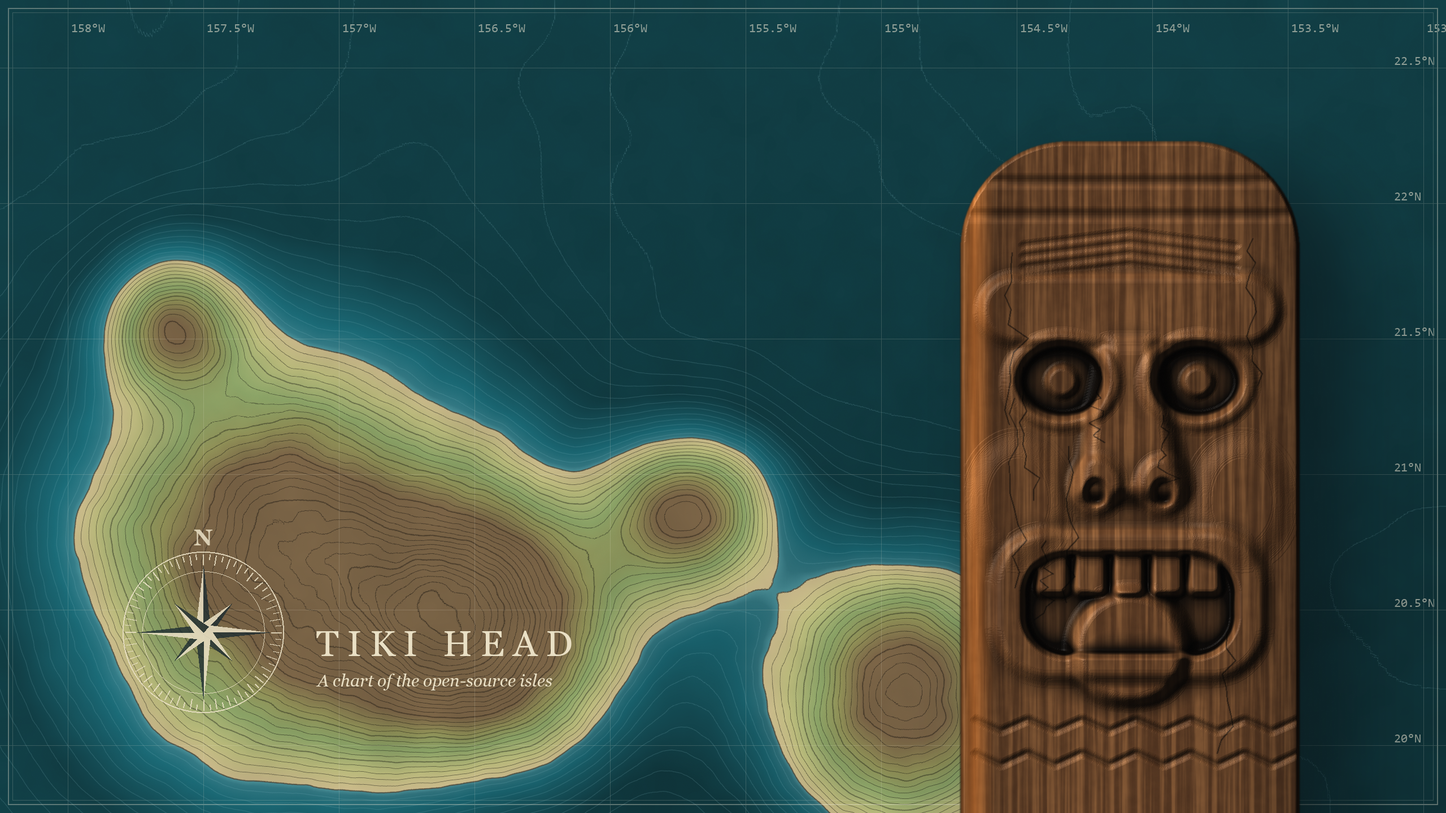
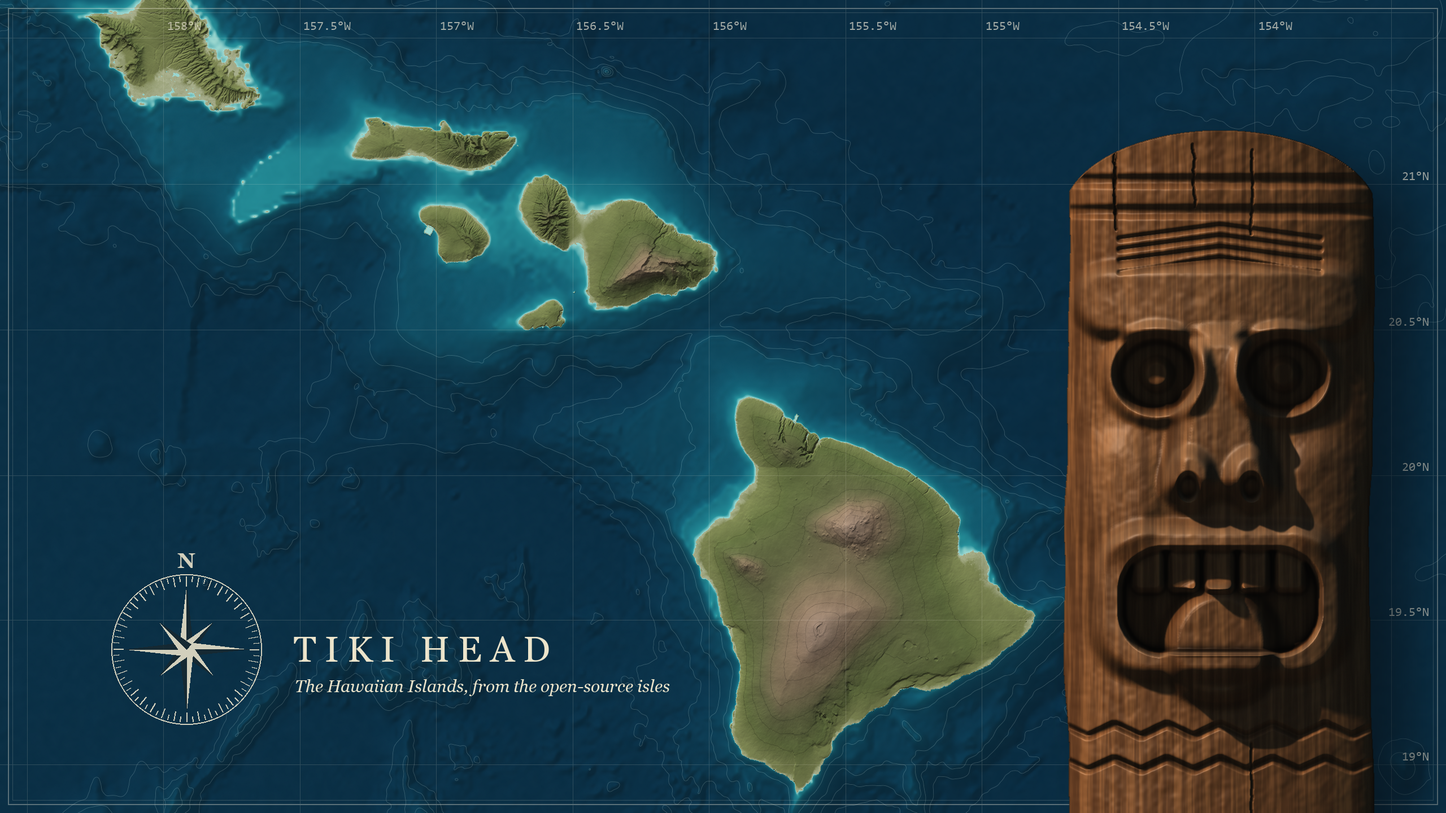
Real islands and a lit carving
The chart is now the real Hawaiian Islands from public elevation and
seafloor data, with relief shading; the tiki is a round post with deeper
carving, cast shadows and weathered wood.

diff --git a/README.md b/README.md
@@ -41,6 +41,8 @@ run's Artifacts.
 
 ## Credits
 
-Wallpaper and logo drawn in code for Tiki Head Linux, CC0. Sample data from
+Wallpaper and logo drawn in code for Tiki Head Linux, CC0. The islands come
+from real elevation data: the Terrain Tiles on AWS Open Data (USGS on land,
+NOAA ETOPO1 at sea, both public domain). Sample data from
 [Natural Earth](https://www.naturalearthdata.com/), public domain. Not made or
 endorsed by Canonical.
